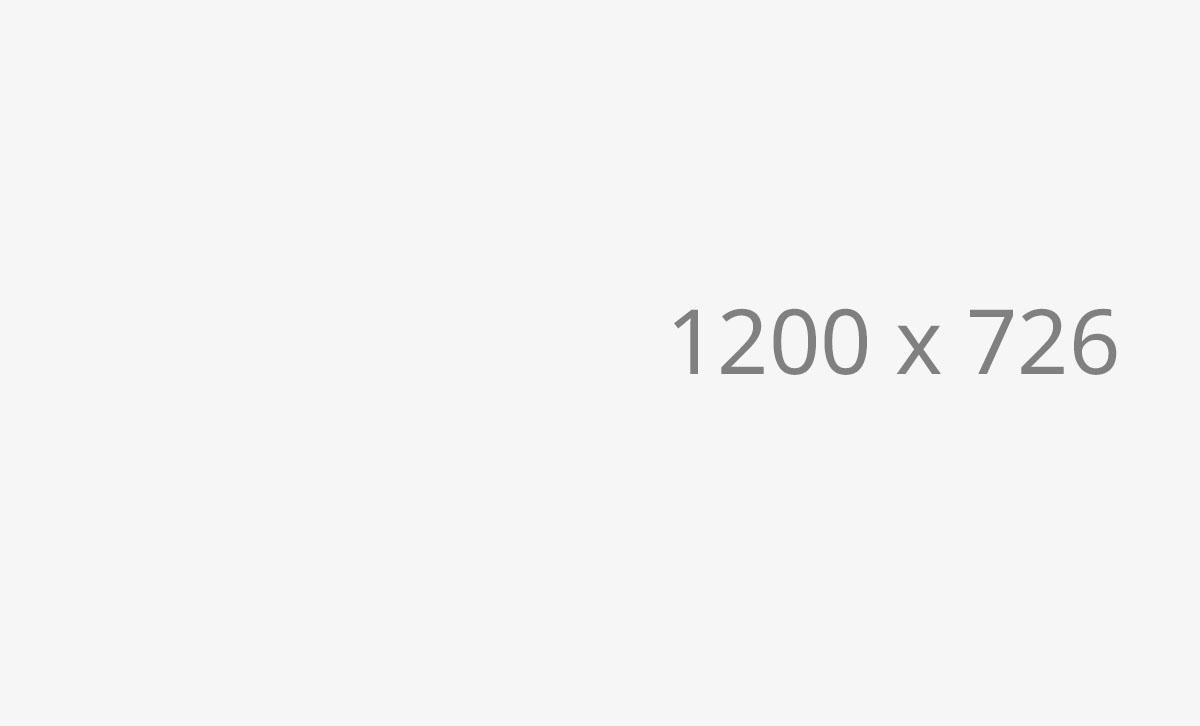
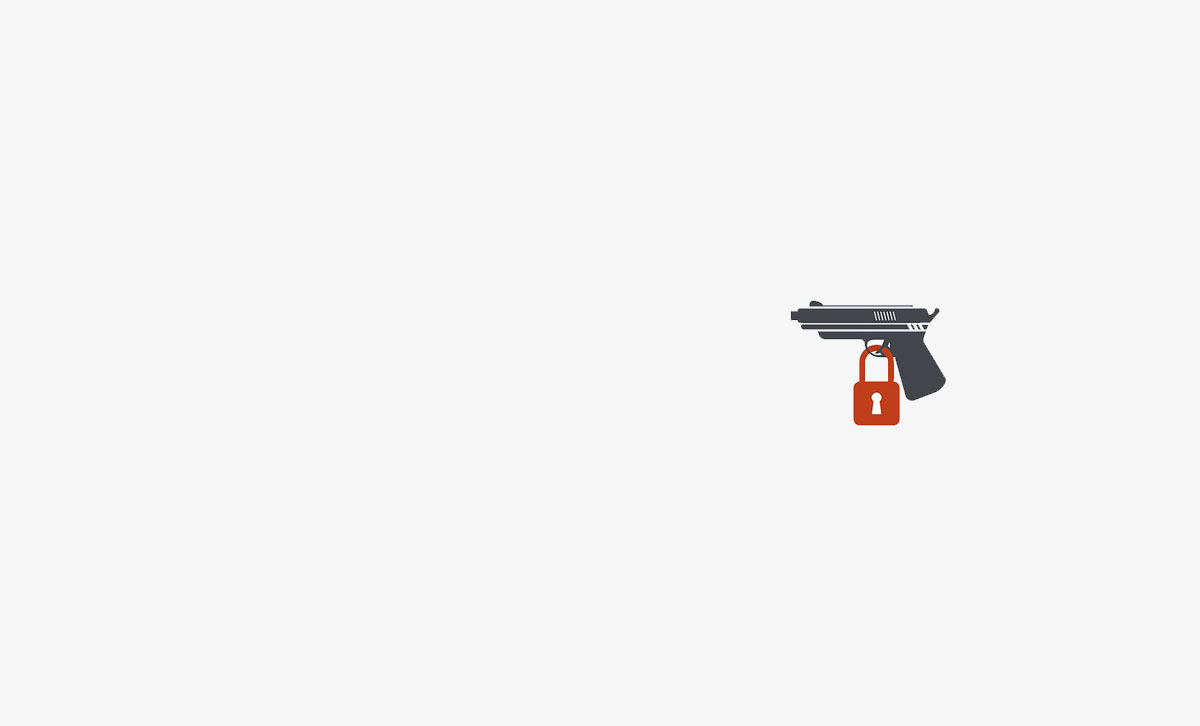
Marty's updates

Changed region(s): [[0.555, 0.3939, 0.9558, 0.6061]]

diff --git a/firearms-armes-a-feu/index.md b/firearms-armes-a-feu/index.md
@@ -9,7 +9,7 @@ author:
 creator:
 subject:
 issued: 2026-05-05
-hero: marty.jpg
+hero: ip-cover-image-1200x726.jpg
 intro: <p>In accordance with the <cite>Firearms Act</cite>, the Canadian Firearms Program (<abbr>CFP</abbr>) oversees firearms licences and registration, maintains national firearm safety training standards, assists law enforcement agencies and aims to enhance public safety. Firearms in Canada continue to be regulated by the <a href="https://laws-lois.justice.gc.ca/eng/acts/f-11.6/"><cite>Firearms Act</cite></a> and Part III of the <a href="https://laws-lois.justice.gc.ca/eng/acts/C-46/"><cite>Criminal Code</cite></a>.</p>
 ---
 

diff --git a/firearms-armes-a-feu/index-fr.md b/firearms-armes-a-feu/index-fr.md
@@ -9,7 +9,7 @@ author:
 creator:
 subject:
 issued: 2026-05-05
-hero: marty.jpg
+hero: ip-cover-image-1200x726.jpg
 intro: <p>Conformément à la <cite>Loi sur les armes à feu</cite>, le Programme canadien des armes à feu (<abbr>PCAF</abbr>) supervise les permis et l'enregistrement des armes à feu, maintient les normes nationales de formation de sécurité en matière d'armes à feu, vient en aide aux organismes d'application de la loi et a pour objectif de renforcer la sécurité publique. Les armes à feu au Canada demeurent réglementées par la Loi sur les armes à feu et la partie III du <cite>Code criminel</cite>.</p>
 ---
 
